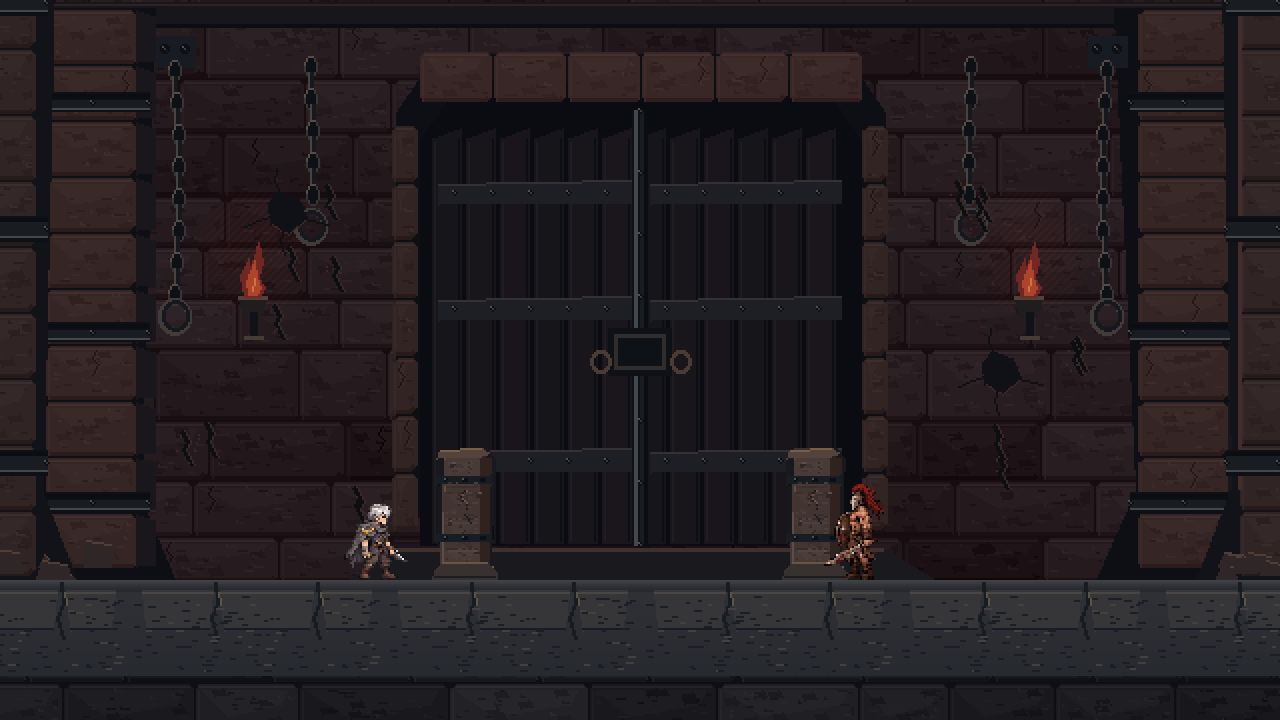
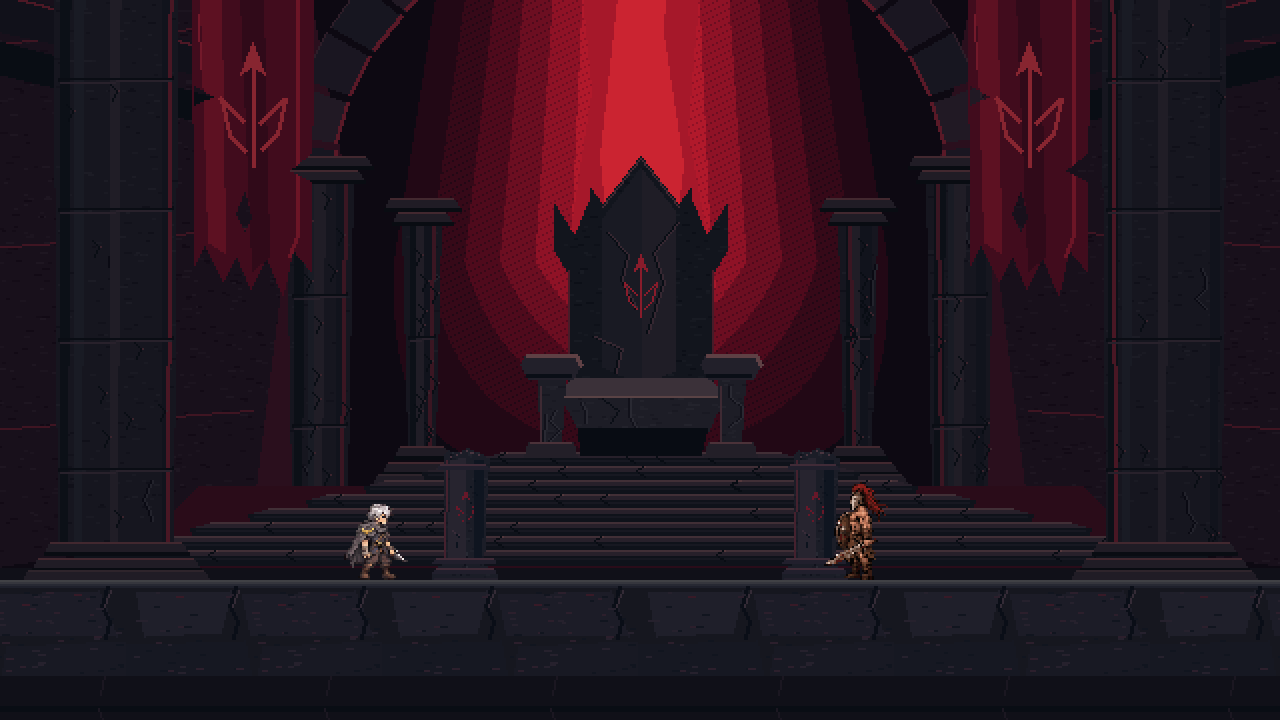
docs: add throne redesign comparisons and preservation checks

diff --git a/Docs/Art/ArakusRoomConcept/review.html b/Docs/Art/ArakusRoomConcept/review.html
@@ -3,8 +3,8 @@
 <style>
 :root{color-scheme:dark}body{margin:0;background:#101217;color:#ddd9d1;font:16px system-ui,sans-serif}header{padding:20px 24px;border-bottom:1px solid #493338}h1{font-size:24px;margin:0 0 9px}p{line-height:1.6;max-width:1000px}select,a{font:inherit;color:inherit}select{padding:8px;background:#24232a;border:1px solid #61545a}main{display:grid;grid-template-columns:repeat(2,minmax(0,1fr));gap:16px;padding:20px}.card{background:#191b21;border:1px solid #39343a;padding:14px}h2{font-size:20px;margin:0 0 12px}.viewport{overflow:auto;background:#0a0c10}img{display:block;width:100%;height:auto;image-rendering:pixelated}.note{color:#b5aba6;font-size:14px}.links{padding:0 24px 24px}a{color:#d2b5a9}@media(max-width:850px){main{grid-template-columns:1fr}}
 </style>
-<header><h1>Brutal Crimson Fortress — 아라쿠스 1층</h1><p>신규 픽셀아트 후보. <strong>오프라인 합성 미리보기이며 Unity 실행 화면이 아닙니다.</strong><br>현재 보스룸은 교체하지 않았습니다. A를 우선 추천하되 두 후보 모두 보존합니다.</p>
+<header><h1>Crimson Throne of the War God — 아라쿠스 1층</h1><p>신규 픽셀아트 후보. <strong>오프라인 합성 미리보기이며 Unity 실행 화면이 아닙니다.</strong><br>현재 보스룸은 교체하지 않았습니다. A를 우선 추천하되 두 후보 모두 보존합니다.</p>
 <label for="view">비교 항목 </label><select id="view"><option value="_future_mockup.png">16:9 · 확대 예정 보스(~주인공 2배)</option><option value="_current_mockup.png">16:9 · 현재 캐릭터 크기</option><option value="_room_16x9.png">16:9 · 배경과 바닥만</option><option value="_future_4x3_crop.png">4:3 · 중앙 크롭(구도 비교)</option><option value="_future_4x3_camera.png">4:3 · 실제 카메라 수식</option><option value="_readability.png">대표 예고/패링 색상 가독성</option><option value="_floor_repeat.png">바닥 6회 반복</option></select></header>
-<main><article class="card"><h2>A · Stone Fortress</h2><p class="note">거친 검붉은 석재, 무거운 부벽과 철문. 중앙 실루엣이 단순한 우선 추천안.</p><div class="viewport"><img id="a" src="StoneFortress_future_mockup.png" alt="A 거친 석조 요새 시안"></div></article><article class="card"><h2>B · Iron Warworks</h2><p class="note">철제 가새·인양 구조·보강 바닥이 강조된 투박한 군사 시설.</p><div class="viewport"><img id="b" src="IronWarworks_future_mockup.png" alt="B 철제 전쟁 시설 시안"></div></article></main>
-<div class="links"><p>기둥은 ±4 위치, 예정 목업의 높이는 기존 3월드 단위 유지 가정입니다. 4:3 실제 카메라는 단순 좌우 크롭보다 더 위아래를 보여줍니다.</p><p><a href="existing_vs_concepts.png">기존 에셋 근사 화면과 비교</a> · <a href="pillar_comparison.png">정상/파괴 기둥 비교</a> · <a href="README.md">규격·통합 계획</a> · <a href="quality_report.json">검사 결과</a></p></div>
+<main><article class="card"><h2>A · StoneFortress / Crimson Throne</h2><p class="note">중앙 검은 왕좌·계단 제단·붉은 광휘·찢어진 전쟁 군기. 새 주력 시안.</p><div class="viewport"><img id="a" src="StoneFortress_future_mockup.png" alt="A 검붉은 전쟁신의 왕좌"></div></article><article class="card"><h2>B · Iron Warworks</h2><p class="note">원본 그대로 보존한 비교 후보: 철제 가새·인양 구조·보강 바닥.</p><div class="viewport"><img id="b" src="IronWarworks_future_mockup.png" alt="B 철제 전쟁 시설 시안"></div></article></main>
+<div class="links"><p>기둥은 ±4 위치, 예정 목업의 높이는 기존 3월드 단위 유지 가정입니다. 4:3 실제 카메라는 단순 좌우 크롭보다 더 위아래를 보여줍니다.</p><p><a href="StoneFortress_redesign_comparison.png">이전 A / 왕좌 개편 비교</a> · <a href="REFERENCE_REVIEW.md">디자인 검토</a> · <a href="existing_vs_concepts.png">기존 에셋 근사 화면과 비교</a> · <a href="pillar_comparison.png">정상/파괴 기둥 비교</a> · <a href="README.md">규격·통합 계획</a> · <a href="quality_report.json">검사 결과</a></p></div>
 <script>document.getElementById('view').addEventListener('change',e=>{document.getElementById('a').src='StoneFortress'+e.target.value;document.getElementById('b').src='IronWarworks'+e.target.value;});</script></html>

diff --git a/Docs/Art/ArakusRoomConcept/verify_revision.py b/Docs/Art/ArakusRoomConcept/verify_revision.py
@@ -1,0 +1,37 @@
+"""Read-only baseline comparisons; writes documentation images/reports only. No Unity/DB access.
+Run after create_assets.py and validate_assets.py. Requires the original PR #19 commit in local Git history.
+"""
+from pathlib import Path
+from PIL import Image, ImageDraw
+import subprocess, hashlib, json, io
+DOC=Path(__file__).resolve().parent
+ROOT=DOC.parents[2]
+BASE='b7210c075badc9533c7418f5410bf0d74983d820'
+def git(*args):return subprocess.check_output(['git',*args],cwd=ROOT)
+def sha(p):return hashlib.sha256(p.read_bytes()).hexdigest()
+tracked=git('ls-tree','-r','--name-only',BASE).decode().splitlines()
+meta=[p for p in tracked if p.startswith('Assets/StreamingAssets/Art/ArakusRoom') and p.endswith('.meta')]
+iron=[p for p in tracked if '/IronWarworks/' in p or p.startswith('Docs/Art/ArakusRoomConcept/IronWarworks_')]
+checks=[]
+for group,paths in [('meta_bytes_and_GUIDs',meta),('IronWarworks_bytes',iron)]:
+    checks.append({'name':group,'files':len(paths),'pass':all((ROOT/p).read_bytes()==git('show',BASE+':'+p) for p in paths)})
+changed=git('diff','--name-only',BASE).decode().splitlines()
+checks.append({'name':'only_approved_art_and_documentation_modified','pass':all(p.startswith('Docs/Art/ArakusRoomConcept/') or (p.startswith('Assets/StreamingAssets/Art/ArakusRoom/StoneFortress/') and p.endswith('.png')) for p in changed)})
+# Comparison uses the historical art, not a recolored or reconstructed "before".
+old=Image.open(io.BytesIO(git('show',BASE+':Docs/Art/ArakusRoomConcept/StoneFortress_future_mockup.png'))).convert('RGB')
+new=Image.open(DOC/'StoneFortress_future_mockup.png').convert('RGB')
+canvas=Image.new('RGB',(1280,390),(16,18,23));d=ImageDraw.Draw(canvas)
+for x,im,label in [(0,old,'BEFORE / fortress and gate'),(640,new,'AFTER / Crimson Throne of the War God')]:
+    d.text((x+12,10),label,fill=(225,217,215));canvas.paste(im.resize((640,360),Image.Resampling.NEAREST),(x,30))
+canvas.save(DOC/'StoneFortress_redesign_comparison.png')
+# Check deterministic regeneration of the generator's 34 original outputs.
+paths=sorted((ROOT/'Assets/StreamingAssets/Art/ArakusRoom').rglob('*.png'))+sorted(p for p in DOC.glob('*.png') if p.name!='StoneFortress_redesign_comparison.png')
+before={str(p.relative_to(ROOT)):sha(p) for p in paths}
+subprocess.run(['python3',str(DOC/'create_assets.py')],cwd=ROOT,check=True)
+after={str(p.relative_to(ROOT)):sha(p) for p in paths}
+checks.append({'name':'deterministic_regeneration','files':len(paths),'pass':before==after})
+(DOC/'reproduction_report.json').write_text(json.dumps({'identical_pngs':sum(before[k]==after[k] for k in before),'method':'Regenerated the 34 generator PNG outputs and checked byte equality; historical comparison generated separately by verify_revision.py','sha256':after},indent=2)+'\n')
+report={'baseline':BASE,'checks':checks,'passed':sum(c['pass'] for c in checks),'failed':sum(not c['pass'] for c in checks),'scope_note':'Git diff checks tracked paths; inspect git status before staging new documents as well.'}
+(DOC/'revision_preservation_report.json').write_text(json.dumps(report,indent=2)+'\n')
+print(json.dumps(report,indent=2))
+assert all(c['pass'] for c in checks)

diff --git a/Docs/Art/ArakusRoomConcept/REFERENCE_REVIEW.md b/Docs/Art/ArakusRoomConcept/REFERENCE_REVIEW.md
@@ -1,0 +1,72 @@
+# StoneFortress 재설계 — 검붉은 전쟁신의 왕좌
+
+## 기준 및 작업 범위
+
+사용자가 대화에 첨부한 붉은 왕좌 이미지를 직접 확인하고 **구도·구조·색감·위압감**의 우선 기준으로 삼았다.
+첨부 이미지는 실사풍이므로 그 질감·부드러운 조명은 옮기지 않았다. 이미지 픽셀을 샘플링하거나 자동 픽셀화하지 않고
+기존 게임의 플레이어·아라쿠스·Castle PNG를 작화 기준으로 삼아 Pillow의 정수 좌표 도형과 도트로 다시 설계했다.
+원본 참고 이미지는 저장소에 복제하지 않는다. 본 문서의 비교 이미지는 이전 자체 제작 A안과 새 자체 제작 A안 비교다.
+
+브랜치와 PR은 기존 `feat/arakus-room-art`, Draft PR #19를 그대로 사용한다.
+이전 A안은 Git `b7210c075badc9533c7418f5410bf0d74983d820`에 보존되어 있다.
+IronWarworks, 게임 코드, Scene, Prefab, 원래 Castle/Pillar/캐릭터, Unity .meta는 변경하지 않는다.
+
+## 첨부 컨셉 → 픽셀아트 해석
+
+| 참고 요소 | 새 실제 에셋 반영 | 횡스크롤을 위한 조정 |
+|---|---|---|
+| 중앙 검은 돌 왕좌 | room_far의 뾰족한 등받이·두 팔걸이·좌판·하부 다리 | 실루엣을 굵게 분리하고 날개 모양의 거친 석재 꼭대기 추가 |
+| 낮고 넓은 제단 | 여덟 층으로 넓어지는 검은 계단 | 실제 이동 바닥과 구분되는 후방 장식. 계단 Collider 추가 없음 |
+| 위에서 내리는 진홍 광휘 | 중앙 수직 광주와 주변 8단계 색띠·도트 전이 | 광원은 배경에만 고정, 전투 바닥은 어두운 상태 유지 |
+| 거대 석주와 높은 아치 | room_far의 원경 열주·큰 석조 아치, room_mid의 굵은 양쪽 석주 | 화면비 변경에도 중심 왕좌가 남도록 대칭 구성 |
+| 찢어진 검붉은 전쟁 군기 | room_mid 좌우 두 군기, 찢긴 밑단·천 주름·갈라진 창 문양 | 금색 테두리·왕관·화려한 귀족 장식 배제 |
+| 감옥 분위기 제거 | A의 철창문·철제 밴드·쇠사슬·인양 구조를 제거 | B는 기존 비교용으로 보존하며 새 디자인 방향과 혼동하지 않음 |
+
+## 픽셀 작화 기준
+
+- 768×512 원본의 정수 픽셀에서 그린 면·균열·칩·도트 군집. 실사 텍스처와 블러를 쓰지 않는다.
+- 검은 석재는 먹색/차가운 회보라 계열 명암 면, 천은 어두운 진홍색 면으로 구분한다.
+- 붉은 광휘는 밝은 중앙과 어두운 가장자리를 불연속 색띠/디더링으로 표현한다. 부드러운 그라데이션이 아니다.
+- 목업은 기존 실제 캐릭터를 PPU/스케일에 맞춰 사용하며, 최근접 보간으로 표시한다.
+- 배경의 디자인 밀도는 단순화했다. 기존 스프라이트의 세부 도트 묘사와 완전히 동일하다고 단정하지 않는다.
+  게임 적용 후 실제 샘플링과 조명 아래에서 최종 미술 리뷰가 필요하다.
+
+## 직접 시각 검토 결과
+
+검토 대상: 16:9 확대 예정 보스 목업, 4:3 카메라 목업, 정상/파괴 기둥 비교, 바닥 반복, 대표 빨강/파랑 표시 목업.
+
+- 중앙에서 왕좌의 등받이와 팔걸이, 아래의 넓은 계단이 읽힌다. 이전 A의 거대한 문 중심 구도를 제거했다.
+- 왕좌 뒤 붉은 빛과 검은 석주의 대비를 강조했다. 좌우 군기의 문양과 찢어진 가장자리가 드러난다.
+- 4:3 실제 카메라에서는 더 넓은 세로 영역이 보이며, 양쪽 군기와 왕좌가 유지된다.
+- 확대 예정 보스와 주인공은 낮은 명도의 전투선 앞에서 구분된다. 장식 석주와 낮은 게임플레이 기둥은 별개다.
+- 정상/파괴 게임플레이 기둥은 동일한 마지막 불투명 행 y=159를 유지한다. 파괴 잔해를 실제로 오래 표시하는 코드는 추가하지 않았다.
+- 바닥 반복 경계의 좌우 픽셀은 일치한다. 큰 돌판의 반복 리듬은 남으며, 실제 이동 카메라에서 최종 확인해야 한다.
+- 대표 빨강 예고/파랑 패링 표시는 목업에서 구분된다. 실제 셰이더·Rage·HUD·피격 플래시 가독성은 검증하지 못했다.
+
+[이전 A와 새 왕좌 비교](StoneFortress_redesign_comparison.png)
+
+![이전 A와 새 왕좌](StoneFortress_redesign_comparison.png)
+
+## 재현 및 검사
+
+```sh
+python3 Docs/Art/ArakusRoomConcept/create_assets.py
+python3 Docs/Art/ArakusRoomConcept/verify_revision.py
+python3 Docs/Art/ArakusRoomConcept/validate_assets.py
+python3 Docs/Art/ArakusRoomConcept/verify_gallery.py
+```
+
+첫 세 명령은 Pillow가 필요하고 마지막은 Playwright/Chromium 및 로컬 HTTP 포트 사용 권한이 필요하다.
+verify_revision은 원래 PR #19 커밋을 Git에서 읽어 변경 전 비교를 생성하며, 34개 생성 PNG의 재현성과 보존 범위를 검사한다.
+
+- 자동 아트 검사: **80 PASS / 0 FAIL** (`quality_report.json`). 규격·알파·반복·발 기준·시야 범위 등.
+- 보존/재현 검사: **4 PASS / 0 FAIL** (`revision_preservation_report.json`). .meta 15개, B 관련 21개 보존, 수정 범위 제한, 34 PNG 바이트 재현.
+- 미술 판단은 위 자동 검사와 별개다. 컨셉의 사실적인 표면 질감은 의도적으로 재현하지 않는다.
+- Unity 실행/임포트/Windows 빌드는 수행하지 않았다. 아트는 아직 런타임에 연결하지 않았다.
+
+## 별도 통합 시 필요한 작업
+
+README의 WorldArtist 1층 전용 분기, Castle 배경 중복 제거, 원경/중경 렌더 순서, 바닥 y=0/반복 배치,
+ArakusVisuals 신규 기둥 로더와 PPU56/발 Pivot 계약을 따른다. 이 작업에서는 해당 코드를 수정하지 않는다.
+사용자 미술 확인과 팀 사전 공유 후 별도 통합 PR에서 16:9·4:3, 현재/확대 보스, 좌우 끝 이동,
+점프·돌진·기둥 파괴·Rage·패링, HUD/결과 화면을 실플레이 검증해야 한다.
